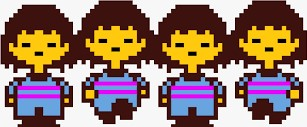
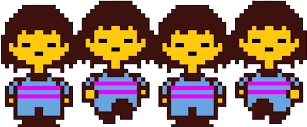
fix: spritesheets position

diff --git a/src/World.ts b/src/World.ts
@@ -18,6 +18,7 @@ export class World extends WebGLCanvas {
   plugins: any = {};
   // deno-lint-ignore no-explicit-any
   loadedPlugins: any = [];
+  reRender = false;
   constructor(params: WorldOptions, scenes: Array<typeof Scene>) {
     super(params);
     this.params = params;
@@ -57,6 +58,10 @@ export class World extends WebGLCanvas {
     // if (this.shouldClose()) return;
     // this.updateEvents();
     this.updateProgramLifeCycle();
+    if (this.reRender) {
+      this.renderer.start(this.currentScene.entities);
+      this.reRender = false;
+    }
     this.renderer.render(this.currentScene.entities);
     if (this.loadedPlugins.length > 0) {
       for (const plug of this.loadedPlugins) {

diff --git a/src/renderers/webgl/2d.ts b/src/renderers/webgl/2d.ts
@@ -203,8 +203,8 @@ export class WebGLRenderer2D {
     setBuffer(this.#gl, buffers.position, this.#location.position, 2);
     setBuffer(this.#gl, buffers.coords, this.#location.texture, 2);
 
-    const x = entity.x / this.canvas.width * 2;
-    const y = entity.y / this.canvas.height * -2;
+    const x = entity instanceof Image || entity instanceof FrameBuffer ? entity.x : entity.x-entity.frame.x / this.canvas.width * 2;
+    const y = entity instanceof Image || entity instanceof FrameBuffer ? entity.y : entity.y-entity.frame.y/ this.canvas.height * -2;
 
     this.#gl.activeTexture(this.#gl.TEXTURE0);
     this.#gl.bindTexture(this.#gl.TEXTURE_2D, buffers.texture);

diff --git a/examples/sprite.ts b/examples/sprite.ts
@@ -2,11 +2,14 @@ import { Scene, Sprite, World } from "../mod.ts";
 
 class Game extends Scene {
   FPS = 5;
-  test = new Sprite("assets/sample.png", 0, 0, { rows: 1, cols: 4 }, 1);
+  test = new Sprite("assets/sample2.png", 0, 0, { rows: 1, cols: 4 }, 1);
 
   setup() {
-    this.setKeys(["a", "b"]);
     this.addChild(this.test);
+  }
+  update(): void {
+      this.test.nextFrame();
+      this.world.reRender = true;
   }
 }
 

diff --git a/cli/version.ts b/cli/version.ts
@@ -1,1 +1,1 @@
-export const VERSION = "2.6.0";
+export const VERSION = "2.6.1";

diff --git a/src/version.ts b/src/version.ts
@@ -1,1 +1,1 @@
-export const VERSION = "2.6.0";
+export const VERSION = "2.6.1";

diff --git a/web/src/version.ts b/web/src/version.ts
@@ -1,1 +1,1 @@
-export const VERSION = "2.6.0";
+export const VERSION = "2.6.1";
